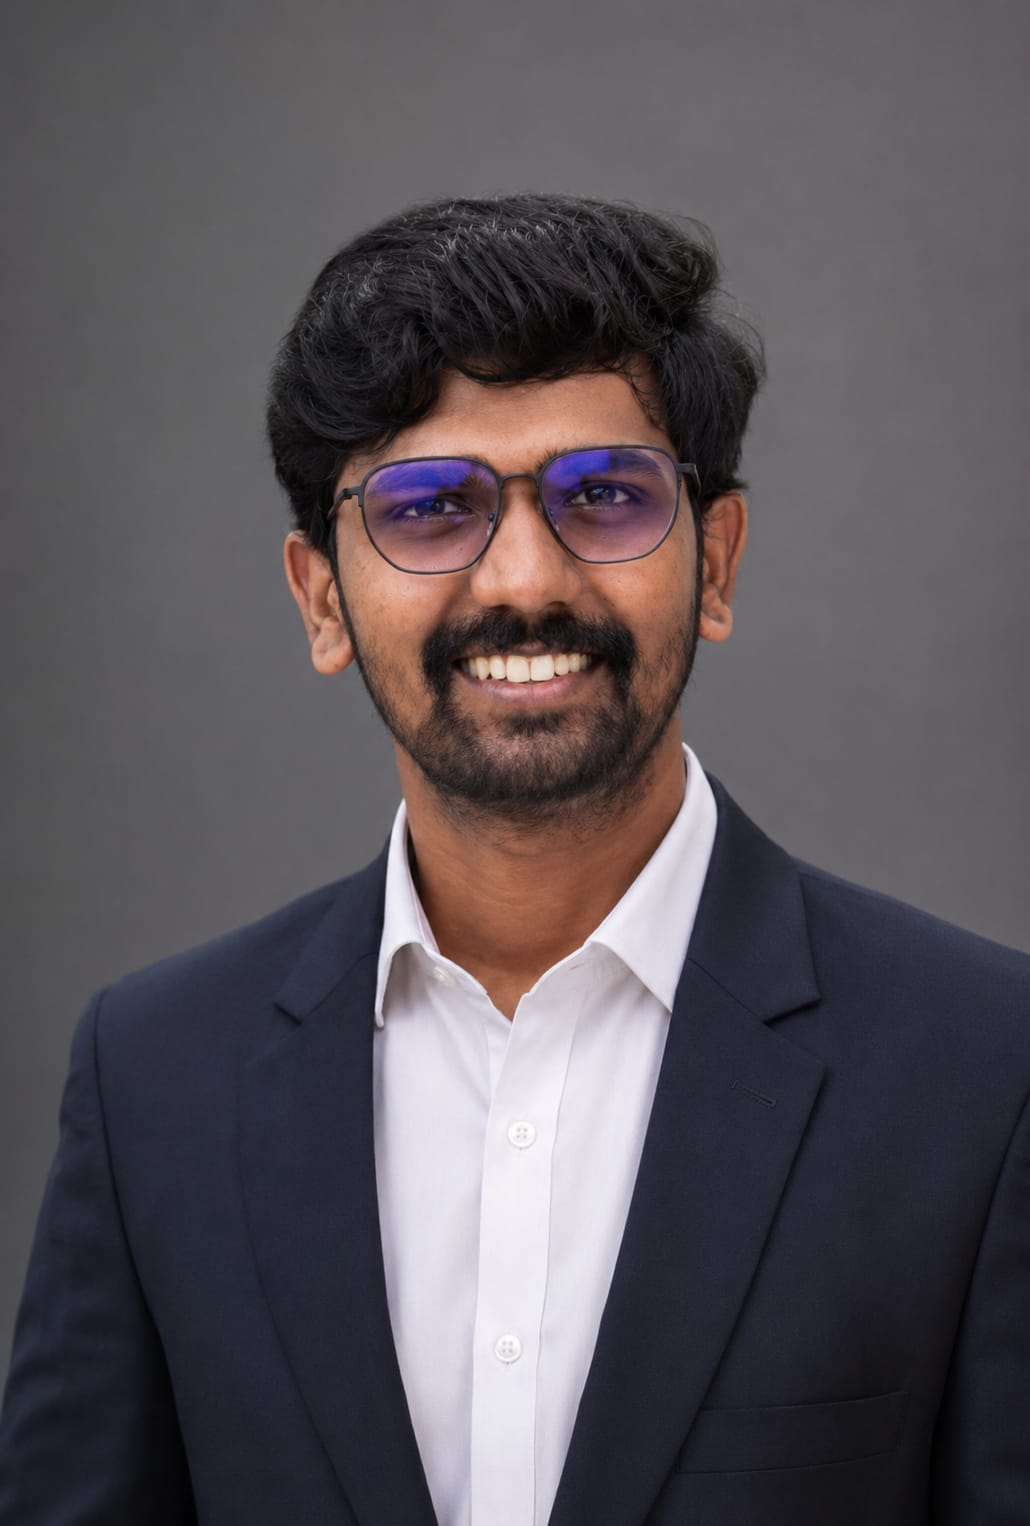
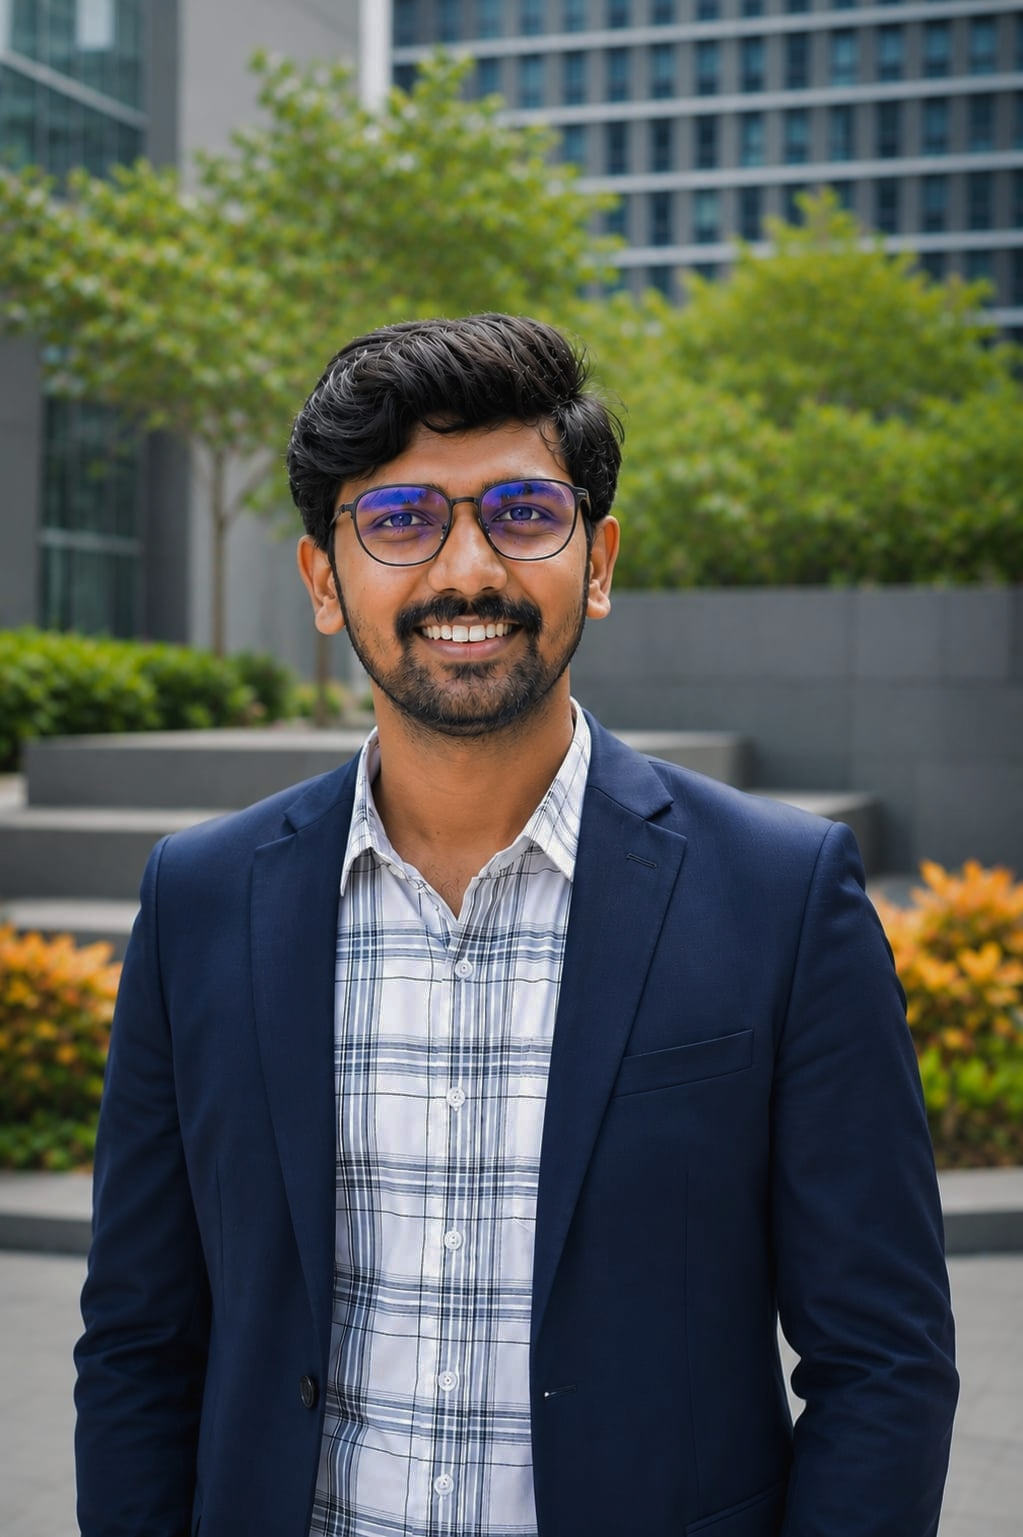
Update team photos, styling, and animations

diff --git a/src/components/TeamMemberCard.tsx b/src/components/TeamMemberCard.tsx
@@ -82,8 +82,19 @@ export function TeamMemberCard({ member }: { member: TeamMember }) {
     )
   }
 
+  let rawExpertise = member.expertise || getDefaultExpertise(member.role);
+  let displayBio = member.bio;
+
+  if (displayName.toLowerCase().includes('harish')) {
+    rawExpertise = "UI/UX Design, Product Design, Brand Identity, Full Stack Developer, Machine Learning & AI, Python Developer, User Experience Strategy, Software Architecture, Product Innovation, Digital Transformation";
+    displayBio = "Leading product innovation, design strategy, full-stack software development, machine learning initiatives, user experience architecture, and brand development while driving digital transformation and scalable technology solutions.";
+  }
+
+  // Enforce Development -> Developer for everyone
+  rawExpertise = rawExpertise.replace(/Development/gi, 'Developer');
+
   // Parse skills
-  const skillsArray = (member.expertise || getDefaultExpertise(member.role))
+  const skillsArray = rawExpertise
     .split(',')
     .map(s => s.trim().replace(/^and\s+/i, '').replace(/\.$/, ''))
     .filter(s => s.length > 0);
@@ -96,7 +107,7 @@ export function TeamMemberCard({ member }: { member: TeamMember }) {
   else if (nameLower.includes('harish')) imageSrc = '/assets/team/founder_harish.jpeg';
   else if (nameLower.includes('mahendra')) imageSrc = '/assets/team/founder_mahendra.jpg';
   else if (nameLower.includes('nithish')) imageSrc = '/assets/team/founder_nithish.jpeg';
-  else if (nameLower.includes('sateesh')) imageSrc = '/assets/team/founder_sateesh.jpeg';
+  else if (nameLower.includes('sateesh') || nameLower.includes('satish')) imageSrc = '/assets/team/founder_sateesh2.jpeg';
   else if (nameLower.includes('vasant')) imageSrc = '/assets/team/founder_vasant.jpeg';
 
   let objectPosition = 'center top';
@@ -130,7 +141,7 @@ export function TeamMemberCard({ member }: { member: TeamMember }) {
           <div className="card-content">
             <h3 className="member-name">{displayName}</h3>
             <p className="member-role">{member.role}</p>
-            <p className="member-bio line-clamp-2">{member.bio}</p>
+            <p className="member-bio line-clamp-2">{displayBio}</p>
             
             <div className="card-actions">
               <button onClick={() => setModalOpen(true)} className="action-btn outline">
@@ -165,23 +176,24 @@ export function TeamMemberCard({ member }: { member: TeamMember }) {
       <style>{`
         .premium-team-card {
           position: relative;
-          background: rgba(15, 15, 15, 0.6);
-          border: 1px solid rgba(255, 255, 255, 0.05);
+          background: rgba(255, 255, 255, 0.75);
+          border: 1px solid rgba(255, 255, 255, 0.4);
           border-radius: 20px;
           overflow: hidden;
           transition: all 0.4s cubic-bezier(0.165, 0.84, 0.44, 1);
-          backdrop-filter: blur(10px);
-          -webkit-backdrop-filter: blur(10px);
+          backdrop-filter: blur(12px);
+          -webkit-backdrop-filter: blur(12px);
           display: flex;
           flex-direction: column;
           height: 100%;
           cursor: default;
+          box-shadow: 0 8px 32px 0 rgba(0, 0, 0, 0.05);
         }
 
         .premium-team-card:hover {
           transform: translateY(-8px);
-          border-color: rgba(255, 180, 0, 0.4);
-          box-shadow: 0 20px 40px -10px rgba(0,0,0,0.8), 0 0 20px rgba(255, 180, 0, 0.1);
+          border-color: rgba(255, 255, 255, 0.8);
+          box-shadow: 0 20px 40px -10px rgba(0,0,0,0.15), 0 0 20px rgba(255, 180, 0, 0.1);
         }
 
         .card-inner {
@@ -224,24 +236,24 @@ export function TeamMemberCard({ member }: { member: TeamMember }) {
 
         .member-name {
           font-size: 22px;
-          color: #fff;
+          color: #111;
           margin: 0 0 6px;
-          font-weight: 600;
+          font-weight: 700;
           letter-spacing: -0.02em;
         }
 
         .member-role {
           font-size: 13px;
-          color: var(--acid);
+          color: #e64a19;
           text-transform: uppercase;
           letter-spacing: 0.08em;
           margin: 0 0 16px;
-          font-weight: 500;
+          font-weight: 600;
         }
 
         .member-bio {
           font-size: 14px;
-          color: #F5F1EA;
+          color: #333;
           line-height: 1.6;
           margin: 0 0 24px;
           flex: 1;
@@ -258,19 +270,19 @@ export function TeamMemberCard({ member }: { member: TeamMember }) {
           display: flex;
           justify-content: space-between;
           align-items: center;
-          border-top: 1px solid rgba(255, 255, 255, 0.08);
+          border-top: 1px solid rgba(0, 0, 0, 0.1);
           padding-top: 20px;
           margin-top: auto;
         }
 
         .action-btn {
           background: none;
-          border: 1px solid rgba(255, 255, 255, 0.2);
-          color: #fff;
+          border: 1px solid rgba(0, 0, 0, 0.2);
+          color: #111;
           padding: 8px 16px;
           border-radius: 6px;
           font-size: 13px;
-          font-weight: 500;
+          font-weight: 600;
           cursor: pointer;
           transition: all 0.2s ease;
           text-decoration: none;
@@ -278,8 +290,8 @@ export function TeamMemberCard({ member }: { member: TeamMember }) {
         }
 
         .action-btn:hover {
-          background: #fff;
-          color: #000;
+          background: #111;
+          color: #fff;
         }
 
         .social-links {
@@ -293,9 +305,9 @@ export function TeamMemberCard({ member }: { member: TeamMember }) {
           justify-content: center;
           width: 32px;
           height: 32px;
-          background: rgba(255, 255, 255, 0.05);
+          background: rgba(0, 0, 0, 0.05);
           border-radius: 6px;
-          color: #aaa;
+          color: #444;
           text-decoration: none;
           font-size: 13px;
           transition: all 0.2s ease;
@@ -303,7 +315,7 @@ export function TeamMemberCard({ member }: { member: TeamMember }) {
 
         .social-icon:hover {
           background: var(--acid);
-          color: #000;
+          color: #fff;
         }
 
         .social-icon.disabled {
@@ -529,7 +541,7 @@ export function TeamMemberCard({ member }: { member: TeamMember }) {
                 <h2 className="modal-member-name-v2" style={{ fontSize: '32px', margin: '0 0 8px', color: '#FFFFFF', fontWeight: 500, letterSpacing: '-0.02em' }}>{displayName}</h2>
                 <p className="modal-member-role-v2" style={{ color: '#FF5A2A', fontSize: '14px', textTransform: 'uppercase', letterSpacing: '0.1em', margin: '0 0 24px', fontWeight: 600 }}>{member.role}</p>
                 <p style={{ fontSize: '15px', color: '#F5F1EA', lineHeight: 1.8, marginBottom: '35px' }}>
-                  {member.bio}
+                  {displayBio}
                 </p>
                 
                 <div style={{ marginBottom: '40px', flexGrow: 1 }}>

diff --git a/src/components/LearningPlatform.tsx b/src/components/LearningPlatform.tsx
@@ -9,25 +9,25 @@ const PLATFORMS = [
     id: 'internships',
     title: 'Internships',
     description: 'Gain practical industry experience by working on real-world software, AI, IoT, robotics, and enterprise development projects under the guidance of experienced mentors.',
-    button: 'Apply Now',
+    button: 'Coming Soon',
     icon: Clock,
-    path: '/learning/internships'
+    path: '#'
   },
   {
     id: 'courses',
     title: 'Courses',
     description: 'Structured technology learning programs designed to help students and professionals build strong foundations in modern software engineering, AI, cybersecurity, cloud technologies, and embedded systems.',
-    button: 'Explore Courses',
+    button: 'Coming Soon',
     icon: GraduationCap,
-    path: '/learning/courses'
+    path: '#'
   },
   {
     id: 'workshops',
     title: 'Workshops',
     description: 'Hands-on technical workshops focused on real-world implementation, problem-solving, engineering best practices, and emerging technologies.',
-    button: 'View Workshops',
+    button: 'Coming Soon',
     icon: Wrench,
-    path: '/learning/workshops'
+    path: '#'
   }
 ]
 
@@ -78,9 +78,34 @@ export function LearningPlatform() {
                 >
                   <platform.icon color="var(--acid)" size={28} />
                 </motion.div>
-                <span style={{ background: 'rgba(255,255,255,0.05)', border: '1px solid #333', padding: '6px 12px', borderRadius: '20px', font: '10px var(--mono)', textTransform: 'uppercase', letterSpacing: '0.1em', color: '#aaa' }}>
-                  Open
-                </span>
+                <motion.div 
+                  animate={{ 
+                    rotateX: [0, 15, 0, -15, 0],
+                    rotateY: [0, 10, 0, -10, 0],
+                    scale: [1, 1.05, 1],
+                    boxShadow: [
+                      "0 5px 15px rgba(255,90,42,0.2)",
+                      "0 10px 25px rgba(255,90,42,0.6)",
+                      "0 5px 15px rgba(255,90,42,0.2)"
+                    ]
+                  }}
+                  transition={{ duration: 3, repeat: Infinity, ease: "easeInOut", delay: i * 0.5 }}
+                  style={{ 
+                    background: 'linear-gradient(135deg, var(--acid) 0%, #ff8a00 100%)', 
+                    padding: '6px 14px', 
+                    borderRadius: '20px', 
+                    font: '10px var(--mono)', 
+                    textTransform: 'uppercase', 
+                    letterSpacing: '0.1em', 
+                    color: '#000',
+                    fontWeight: 800,
+                    border: '1px solid rgba(255,255,255,0.4)',
+                    transformStyle: 'preserve-3d',
+                    perspective: '1000px'
+                  }}
+                >
+                  Opening Soon
+                </motion.div>
               </div>
               
               <h3 style={{ color: '#FFFFFF', margin: '0 0 15px', fontSize: '26px', fontWeight: 500 }}>{platform.title}</h3>

diff --git a/src/components/TechOrbit.tsx b/src/components/TechOrbit.tsx
@@ -90,8 +90,14 @@ export function TechOrbit() {
       const parent = canvas.parentElement;
       width = parent?.clientWidth || 550;
       height = parent?.clientHeight || 550;
-      canvas.width = width;
-      canvas.height = height;
+      
+      const dpr = window.devicePixelRatio || 1;
+      canvas.width = width * dpr;
+      canvas.height = height * dpr;
+      canvas.style.width = `${width}px`;
+      canvas.style.height = `${height}px`;
+      
+      ctx.scale(dpr, dpr);
     };
     
     window.addEventListener("resize", resize);

diff --git a/src/app/globals.css b/src/app/globals.css
@@ -144,7 +144,7 @@ footer{background:#050505;padding:120px 4vw 35px;border-top:1px solid #222}.foot
 .reveal{opacity:0;transform:translateY(25px);transition:opacity .8s ease,transform .8s cubic-bezier(.2,.8,.2,1)}.reveal.in{opacity:1;transform:none}
 @keyframes fadeIn { from { opacity: 0; transform: translateY(-10px); } to { opacity: 1; transform: none; } }
 
-@media(max-width:900px){.team-grid { grid-template-columns: repeat(2, 1fr); } .form-section { grid-template-columns: 1fr; gap: 50px; } .footer-bottom { grid-template-columns: 1fr 1fr; } .desktop-nav,.header-cta{display:none}.menu-toggle{display:block;position:relative;z-index:52;margin-left:auto}.menu-toggle span{display:block;width:25px;height:1px;background:var(--paper);transition:.3s;margin:6px 0}.hero{min-height:740px}.hero-copy{padding-top:19vh}.hero-status{display:none}.hero h1{font-size:clamp(45px,12vw,75px)}.hero-image{background-position:62% center;opacity:.22}.manifesto,.cap-heading,.team-heading,.trust-heading,.cap-stage{grid-template-columns:1fr; gap: 25px;}.section-index{margin-bottom:45px}.manifesto-foot{grid-template-columns:1fr 1fr}.manifesto-foot>p{grid-column:1/-1}.cap-heading{margin-bottom:35px}.cap-heading p{margin-top:25px}.process-heading{display:block}.process-heading h2{text-align:left;margin-top:30px}.footer-cta{position:static;margin-top:45px}.project-intro{margin-left:0; grid-template-columns: 1fr;} .trust-grid{grid-template-columns:1fr 1fr}.purpose{grid-template-columns:1fr;gap:70px}}
+@media(max-width:900px){.team-grid { grid-template-columns: repeat(2, 1fr); } .form-section { grid-template-columns: 1fr; gap: 50px; } .footer-bottom { grid-template-columns: 1fr 1fr; } .desktop-nav,.header-cta{display:none}.menu-toggle{display:block;position:relative;z-index:52;margin-left:auto;transform:scale(1.8);transform-origin:right center}.menu-toggle span{display:block;width:25px;height:1px;background:var(--paper);transition:.3s;margin:6px 0}.hero{min-height:740px}.hero-copy{padding-top:19vh}.hero-status{display:none}.hero h1{font-size:clamp(45px,12vw,75px)}.hero-image{background-position:62% center;opacity:.22}.manifesto,.cap-heading,.team-heading,.trust-heading,.cap-stage{grid-template-columns:1fr; gap: 25px;}.section-index{margin-bottom:45px}.manifesto-foot{grid-template-columns:1fr 1fr}.manifesto-foot>p{grid-column:1/-1}.cap-heading{margin-bottom:35px}.cap-heading p{margin-top:25px}.process-heading{display:block}.process-heading h2{text-align:left;margin-top:30px}.footer-cta{position:static;margin-top:45px}.project-intro{margin-left:0; grid-template-columns: 1fr;} .trust-grid{grid-template-columns:1fr 1fr}.purpose{grid-template-columns:1fr;gap:70px}}
 @media(max-width:560px){.top-utility-bar .utility-group span { display: none; } .team-grid { grid-template-columns: 1fr; } .form-group { grid-template-columns: 1fr; } .footer-bottom { grid-template-columns: 1fr; } .projects-grid { grid-template-columns: 1fr; } .hero h1{font-size:12vw;margin-top:22px;letter-spacing:-.075em}.hero-actions{flex-direction:column;align-items:flex-start}.primary-action{width:215px}.manifesto,.capabilities,.systems,.team,.form-section,footer{padding-left:20px;padding-right:20px}.metric strong{font-size:44px}.trust-grid{grid-template-columns:1fr}}
 
 /* --- Premium Animations --- */